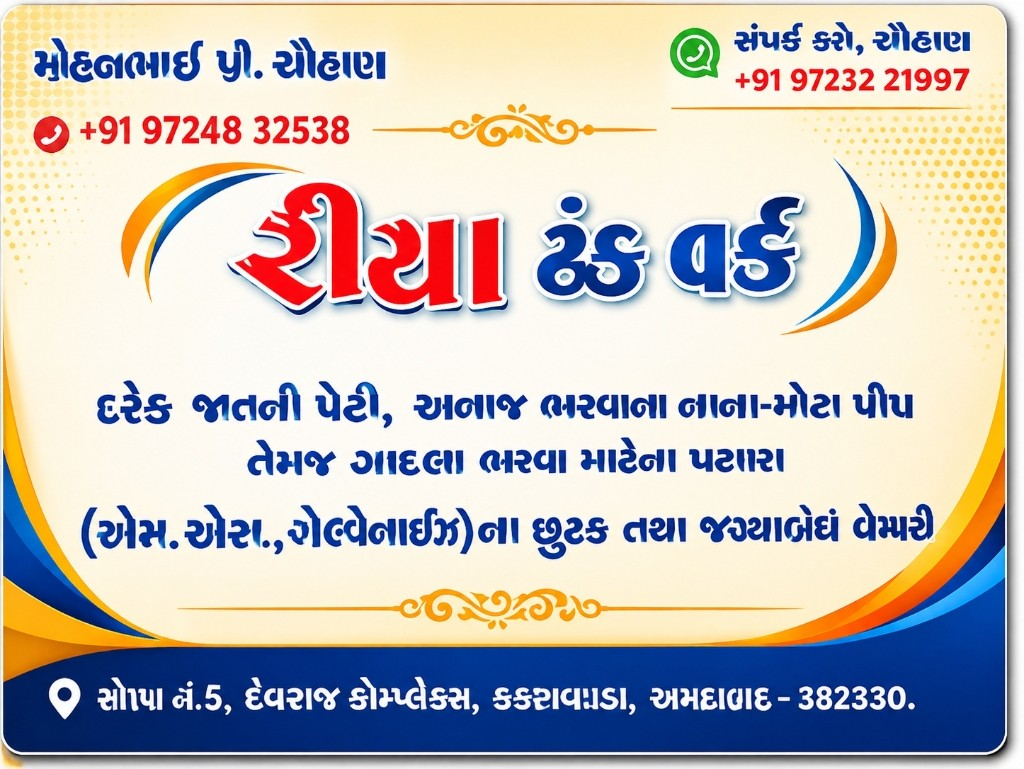
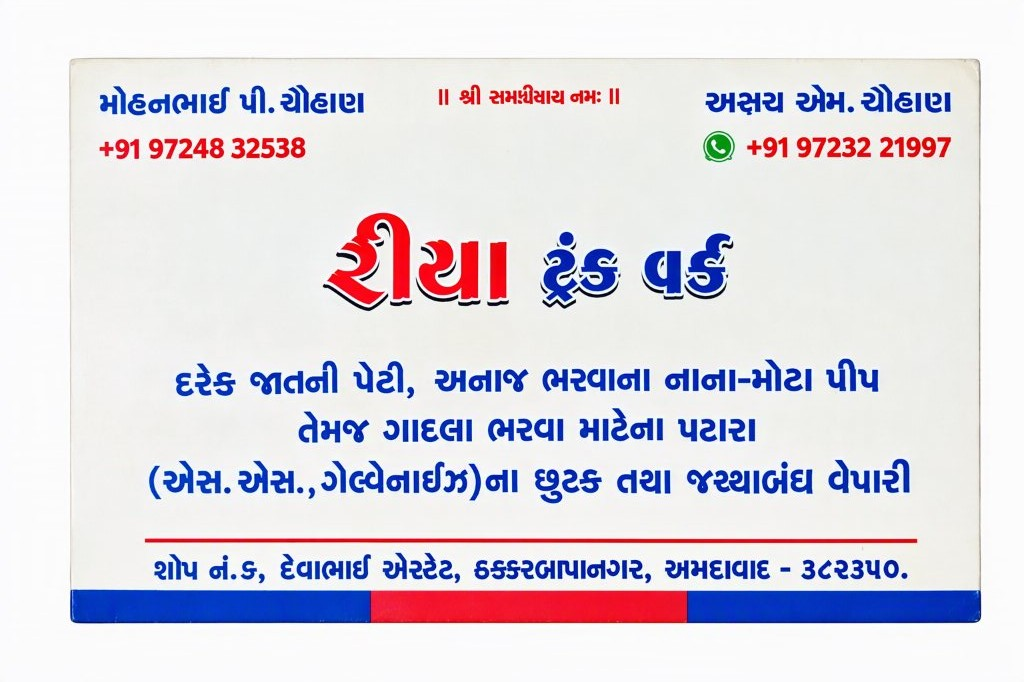
feat: update visiting card and official business address to Devabhai Estate Thakkarbapanagar 382350

diff --git a/src/data/translations.js b/src/data/translations.js
@@ -9,7 +9,7 @@ export const translations = {
       fullName: "રિયા ટ્રંક વર્ક – અમદાવાદ",
       tagline: "સ્ટોરેજ, પણ સાવ આઇકોનિક.",
       subtagline: "રોજિંદા જીવન અને પેઢીઓ માટે પ્રીમિયમ મેટલ ટ્રંક અને સ્ટોરેજ સોલ્યુશન્સ.",
-      shopLabel: "શોપ નં. ૬, દેવરાજ કોમ્પલેક્સ, કઠવાડા, અમદાવાદ",
+      shopLabel: "શોપ નં. ૬, દેવાભાઈ એસ્ટેટ, ઠક્કરબાપાનગર, અમદાવાદ",
       wholesaleRetailTag: "જથ્થાબંધ અને છૂટક વિક્રેતા"
     },
     nav: {
@@ -65,7 +65,7 @@ export const translations = {
       p2: "દરેક ટ્રંક અને કોઠી ઉચ્ચ ગુણવત્તાવાળા સીઆરસી (CRC), ગેલ્વેનાઈઝ્ડ (GI) પતરાં તથા સ્ટેનલેસ સ્ટીલમાંથી કાળજીપૂર્વક તૈયાર કરવામાં આવે છે. મજબૂત વેલ્ડિંગ, મજબૂત હેન્ડલ્સ અને સેફ્ટી લૉક સાથે તે વર્ષો સુધી અડીખમ રહે છે.",
       ownerLabel: "સંચાલક / માલિક:",
       ownerName: "મોહનભાઈ પી. ચૌહાણ",
-      locationLabel: "સ્થળ: દેવરાજ કોમ્પલેક્સ, કઠવાડા, અમદાવાદ"
+      locationLabel: "સ્થળ: દેવાભાઈ એસ્ટેટ, ઠક્કરબાપાનગર, અમદાવાદ"
     },
     whyUs: {
       heading: "રિયા ટ્રંક વર્ક શા માટે?",
@@ -164,7 +164,7 @@ export const translations = {
       subtitle: "મજબૂત સંગ્રહ. વિશ્વાસપાત્ર ગુણવત્તા.",
       tag: "અમારા વિશે",
       storyHeading: "રિયા ટ્રંક વર્ક વિશે",
-      storyBody1: "રિયા ટ્રંક વર્ક અમદાવાદમાં આવેલી એક અગ્રણી મેટલ ફેબ્રિકેશન અને સ્ટોરેજ સોલ્યુશન્સ પ્રદાતા છે. અમારી દુકાન દેવરાજ કોમ્પલેક્સ, કઠવાડા, અમદાવાદ ખાતે આવેલી છે, જેનું સંચાલન મોહનભાઈ પી. ચૌહાણ કરે છે.",
+      storyBody1: "રિયા ટ્રંક વર્ક અમદાવાદમાં આવેલી એક અગ્રણી મેટલ ફેબ્રિકેશન અને સ્ટોરેજ સોલ્યુશન્સ પ્રદાતા છે. અમારી દુકાન દેવાભાઈ એસ્ટેટ, ઠક્કરબાપાનગર, અમદાવાદ ખાતે આવેલી છે, જેનું સંચાલન મોહનભાઈ પી. ચૌહાણ કરે છે.",
       storyBody2: "અમે વર્ષોથી ગ્રાહકોની જરૂરિયાતોને અનુરૂપ ટકાઉ મેટલ ટ્રંક, અનાજ ભરવાની કોઠીઓ (Grain Storage Drums), પથારી અને ગાદલાં માટેના મોટા જમ્બો ટ્રંક, સ્ટેનલેસ સ્ટીલ (SS) ડબ્બા અને ગેલ્વેનાઈઝ્ડ (GI) પતરાના ઉત્પાદનો પૂરા પાડીએ છીએ.",
       storyBody3: "અમારી પ્રાથમિકતા હંમેશા મજબૂત મટીરીયલ અને વિશ્વસનીય કારીગરી રહી છે, જેના કારણે સ્થાનિક પરિવારો અને અમદાવાદના વેપારીઓ અમારા પર વિશ્વાસ મૂકે છે.",
       materialsTitle: "અમે વાપરીએ છીએ તે મટીરીયલ્સ",
@@ -179,7 +179,7 @@ export const translations = {
       quickLinks: "ઝડપી લિંક્સ",
       categories: "પ્રોડક્ટ્સ",
       contact: "સંપર્ક વિગત",
-      address: "શોપ નં. ૬, દેવરાજ કોમ્પલેક્સ, કઠવાડા, અમદાવાદ, ગુજરાત – ૩૮૨૩૩૦",
+      address: "શોપ નં. ૬, દેવાભાઈ એસ્ટેટ, ઠક્કરબાપાનગર, અમદાવાદ, ગુજરાત – ૩૮૨૩૫૦",
       phone: "+91 97248 32538",
       whatsapp: "+91 97232 21997",
       rights: "સર્વાધિકાર સુરક્ષિત.",
@@ -193,7 +193,7 @@ export const translations = {
       fullName: "रिया ट्रंक वर्क – अहमदाबाद",
       tagline: "STORAGE, BUT MAKE IT ICONIC.",
       subtagline: "दैनिक जीवन और पीढ़ियों के लिए प्रीमियम मेटल ट्रंक और स्टोरेज समाधान।",
-      shopLabel: "दुकान नं. ६, देवराज कॉम्प्लेक्स, कठवाड़ा, अहमदाबाद",
+      shopLabel: "दुकान नं. ६, देवाभाई एस्टेट, ठक्करबापानगर, अहमदाबाद",
       wholesaleRetailTag: "थोक एवं खुदरा विक्रेता"
     },
     nav: {
@@ -249,7 +249,7 @@ export const translations = {
       p2: "प्रत्येक ट्रंक और ड्रम उच्च गुणवत्ता वाले सीआरसी (CRC), गैल्वेनाइज्ड (GI) और स्टेनलेस स्टील से तैयार किया जाता है। मजबूत वेल्डिंग और सुरक्षा लॉक के साथ ये वर्षों तक बेजोड़ रहते हैं।",
       ownerLabel: "संचालक / संपर्क:",
       ownerName: "मोहनभाई पी. चौहान",
-      locationLabel: "स्थान: देवराज कॉम्प्लेक्स, कठवाड़ा, अहमदाबाद"
+      locationLabel: "स्थान: देवाभाई एस्टेट, ठक्करबापानगर, अहमदाबाद"
     },
     whyUs: {
       heading: "रिया ट्रंक वर्क क्यों चुनें?",
@@ -348,7 +348,7 @@ export const translations = {
       subtitle: "मजबूत भंडारण। अटूट विश्वसनीयता।",
       tag: "हमारे बारे में",
       storyHeading: "रिया ट्रंक वर्क के बारे में",
-      storyBody1: "रिया ट्रंक वर्क अहमदाबाद में स्थित एक प्रमुख मेटल फैब्रिकेशन और स्टोरेज समाधान प्रतिष्ठान है। हमारी दुकान देवराज कॉम्प्लेक्स, कठवाड़ा, अहमदाबाद में स्थित है, जिसका संचालन मोहनभाई पी. चौहान द्वारा किया जाता है।",
+      storyBody1: "रिया ट्रंक वर्क अहमदाबाद में स्थित एक प्रमुख मेटल फैब्रिकेशन और स्टोरेज समाधान प्रतिष्ठान है। हमारी दुकान देवाभाई एस्टेट, ठक्करबापानगर, अहमदाबाद में स्थित है, जिसका संचालन मोहनभाई पी. चौहान द्वारा किया जाता है।",
       storyBody2: "हम ग्राहकों की आवश्यकता अनुसार टिकाऊ मेटल ट्रंक, अनाज भंडारण कोठी (Grain Drums), रजाई-गद्दों के बड़े जंबो ट्रंक, स्टेनलेस स्टील (SS) कंटेनर और गैल्वेनाइज्ड (GI) मेटल उत्पाद उपलब्ध कराते हैं।",
       storyBody3: "हमारी प्राथमिकता हमेशा मजबूत सामग्री और कुशल कारीगरी रही है, जिस पर अहमदाबाद के परिवार और व्यापारी विश्वास करते हैं।",
       materialsTitle: "हमारे द्वारा प्रयुक्त प्रमुख सामग्रियां",
@@ -363,7 +363,7 @@ export const translations = {
       quickLinks: "त्वरित लिंक",
       categories: "उत्पाद",
       contact: "संपर्क विवरण",
-      address: "दुकान नं. ६, देवराज कॉम्प्लेक्स, कठवाड़ा, अहमदाबाद, गुजरात – ३८२३३०",
+      address: "दुकान नं. ६, देवाभाई एस्टेट, ठक्करबापानगर, अहमदाबाद, गुजरात – ३૮૨३૫૦",
       phone: "+91 97248 32538",
       whatsapp: "+91 97232 21997",
       rights: "सर्वाधिकार सुरक्षित।",
@@ -377,7 +377,7 @@ export const translations = {
       fullName: "RIYA TRUNK WORK – Ahmedabad",
       tagline: "STORAGE, BUT MAKE IT ICONIC.",
       subtagline: "Premium metal trunks & storage solutions engineered for everyday life and generational durability.",
-      shopLabel: "Shop No. 6, Devraj Complex, Kathwada, Ahmedabad",
+      shopLabel: "Shop No. 6, Devabhai Estate, Thakkarbapanagar, Ahmedabad",
       wholesaleRetailTag: "Wholesale & Retail Supplier"
     },
     nav: {
@@ -433,7 +433,7 @@ export const translations = {
       p2: "Every trunk and drum is precision-built using high-tensile CRC steel, galvanized (GI) sheet, or surgical-grade stainless steel. With corner reinforcements and heavy padlock eyelets, your valuables remain secure.",
       ownerLabel: "Proprietor / Contact:",
       ownerName: "Mohanbhai P. Chauhan",
-      locationLabel: "Location: Devraj Complex, Kathwada, Ahmedabad"
+      locationLabel: "Location: Devabhai Estate, Thakkarbapanagar, Ahmedabad"
     },
     whyUs: {
       heading: "WHY RIYA TRUNK WORK?",
@@ -532,7 +532,7 @@ export const translations = {
       subtitle: "Heavy-duty durability meets modern utility.",
       tag: "OUR STORY",
       storyHeading: "About RIYA TRUNK WORK",
-      storyBody1: "RIYA TRUNK WORK is an established metal fabrication and storage products manufacturer and supplier located at Devraj Complex, Kathwada in Ahmedabad, Gujarat, founded and managed by Mohanbhai P. Chauhan.",
+      storyBody1: "RIYA TRUNK WORK is an established metal fabrication and storage products manufacturer and supplier located at Shop No. 6, Devabhai Estate, Thakkarbapanagar in Ahmedabad, Gujarat, founded and managed by Mohanbhai P. Chauhan.",
       storyBody2: "We specialize in the craftsmanship of heavy-duty metal storage trunks, airtight grain storage drums (Kothi/Peep), extra-capacity bedding and mattress trunks, stainless steel (SS) boxes, and galvanized (GI) containers.",
       storyBody3: "Our philosophy is grounded in robust metal gauge standards, durable hardware, and honest relationships with both retail customers and wholesale dealers across Gujarat.",
       materialsTitle: "Core Engineering Materials",
@@ -547,7 +547,7 @@ export const translations = {
       quickLinks: "Quick Links",
       categories: "Categories",
       contact: "Contact",
-      address: "Shop No. 6, Devraj Complex, Kathwada, Ahmedabad, Gujarat – 382330",
+      address: "Shop No. 6, Devabhai Estate, Thakkarbapanagar, Ahmedabad, Gujarat – 382350",
       phone: "+91 97248 32538",
       whatsapp: "+91 97232 21997",
       rights: "All Rights Reserved.",

diff --git a/src/lib/utils.js b/src/lib/utils.js
@@ -16,13 +16,13 @@ export function getWhatsAppLink({ product = null, enquiryType = 'general', custo
       `${variant ? `Surface Finish: *${variant} (As per my requirement)*\n` : (product.hasLaminationOption ? 'Surface Finish: *With or Without Lamination (As Required)*\n' : '')}` +
       `${includeTrolley ? `Wheeled Trolley Base: *Yes, please include movable trolley*\n` : ''}` +
       `${quantity ? `Required Quantity: ${quantity}\n` : ''}\n` +
-      `Please share:\n1. Current Price & Wholesale Rates\n2. Available Sizes & Dimensions\n3. Actual Product Photographs / Video\n4. Delivery or Shop Pickup options at Devraj Complex, Kathwada.\n\nThank you!`;
+      `Please share:\n1. Current Price & Wholesale Rates\n2. Available Sizes & Dimensions\n3. Actual Product Photographs / Video\n4. Delivery or Shop Pickup options at Devabhai Estate, Thakkarbapanagar.\n\nThank you!`;
   } else if (enquiryType === 'wholesale') {
     message = `Hello RIYA TRUNK WORK (Mohanbhai Chauhan),\n\nI am contacting you regarding a *WHOLESALE / BULK ENQUIRY* for metal storage boxes, grain drums (kothi), and GI containers.\n${customMessage ? `Details: ${customMessage}\n` : ''}\nPlease share your wholesale catalog, minimum order quantities, and best trader rates.\n\nThank you.`;
   } else if (enquiryType === 'retail') {
-    message = `Hello RIYA TRUNK WORK,\n\nI would like to enquire for *RETAIL / PERSONAL USE* metal storage box / grain drum.\n${customMessage ? `Requirement: ${customMessage}\n` : ''}\nPlease let me know available models and shop timings at Devraj Complex, Kathwada.\n\nThank you.`;
+    message = `Hello RIYA TRUNK WORK,\n\nI would like to enquire for *RETAIL / PERSONAL USE* metal storage box / grain drum.\n${customMessage ? `Requirement: ${customMessage}\n` : ''}\nPlease let me know available models and shop timings at Devabhai Estate, Thakkarbapanagar.\n\nThank you.`;
   } else {
-    message = customMessage || `Hello RIYA TRUNK WORK,\n\nI am visiting your website and would like to know more about your metal trunks and storage products at Shop No. 6, Devraj Complex, Kathwada, Ahmedabad.\n\nThank you.`;
+    message = customMessage || `Hello RIYA TRUNK WORK,\n\nI am visiting your website and would like to know more about your metal trunks and storage products at Shop No. 6, Devabhai Estate, Thakkarbapanagar, Ahmedabad.\n\nThank you.`;
   }
 
   return `https://wa.me/${OFFICIAL_WHATSAPP_RAW}?text=${encodeURIComponent(message)}`;

diff --git a/src/components/home/VisitShopMap.jsx b/src/components/home/VisitShopMap.jsx
@@ -69,7 +69,7 @@ export default function VisitShopMap() {
                   <div>
                     <div className="text-[11px] font-bold font-mono text-carbon/50 uppercase">ADDRESS</div>
                     <div className="font-bold text-carbon text-sm mt-0.5">{settings.address}</div>
-                    <div className="text-xs text-carbon/70 mt-0.5">Ahmedabad, Gujarat – 382340</div>
+                    <div className="text-xs text-carbon/70 mt-0.5">Ahmedabad, Gujarat – 382350</div>
                     <div className="inline-flex items-center gap-1 font-mono text-[10px] text-orange-electric font-bold mt-1 px-2 py-0.5 rounded bg-orange-50 border border-orange-200">
                       <span>GPS: 23.040066, 72.642030</span>
                     </div>
@@ -114,7 +114,7 @@ export default function VisitShopMap() {
           {/* Right Map View (7 Cols) */}
           <div className="lg:col-span-7 rounded-3xl border-2 border-carbon overflow-hidden shadow-brutal min-h-[350px] relative bg-cream-dark">
             <iframe
-              title="RIYA TRUNK WORK Location at Devraj Complex Kathwada Ahmedabad"
+              title="RIYA TRUNK WORK Location at Devabhai Estate Thakkarbapanagar Ahmedabad"
               src={settings.mapEmbedUrl}
               className="w-full h-full min-h-[380px] border-0"
               allowFullScreen=""
@@ -124,8 +124,8 @@ export default function VisitShopMap() {
 
             <div className="absolute bottom-4 left-4 right-4 bg-carbon/95 text-cream p-3 rounded-2xl border border-cream/20 flex items-center justify-between text-xs backdrop-blur-sm">
               <div className="truncate pr-2">
-                <span className="font-bold text-white">Shop No. 6, Devraj Complex, Kathwada</span>
-                <span className="hidden sm:inline text-cream/70"> • Ahmedabad, Gujarat 382330</span>
+                <span className="font-bold text-white">Shop No. 6, Devabhai Estate, Thakkarbapanagar</span>
+                <span className="hidden sm:inline text-cream/70"> • Ahmedabad, Gujarat 382350</span>
               </div>
               <a
                 href={settings.mapsDirectionUrl}

diff --git a/src/components/home/HeroSection.jsx b/src/components/home/HeroSection.jsx
@@ -91,7 +91,7 @@ export default function HeroSection() {
               </div>
               <div className="flex items-center gap-1.5">
                 <CheckCircle className="w-4 h-4 text-orange-electric shrink-0" />
-                <span>{lang === 'gu' ? 'દેવરાજ કોમ્પલેક્સ, કઠવાડા' : 'Devraj Complex, Kathwada'}</span>
+                <span>{lang === 'gu' ? 'દેવાભાઈ એસ્ટેટ, ઠક્કરબાપાનગર' : 'Devabhai Estate, Thakkarbapanagar'}</span>
               </div>
               <div className="flex items-center gap-1.5">
                 <CheckCircle className="w-4 h-4 text-orange-electric shrink-0" />
@@ -197,13 +197,13 @@ export default function HeroSection() {
                     className="font-bold text-whatsapp hover:underline flex items-center gap-1"
                   >
                     <MessageCircle className="w-3 h-3 fill-current" />
-                    <span>{settings.whatsappContactGu || settings.whatsappContact || 'સંપર્ક કરો, ચૌહાણ'} ({settings.whatsapp})</span>
+                    <span>{settings.whatsappContactGu || 'અક્ષય એમ. ચૌહાણ'} ({settings.whatsapp})</span>
                   </a>
                 </div>
                 <div className="flex items-center justify-between text-xs">
                   <span className="text-carbon/60 font-medium">Location:</span>
                   <span className="font-bold text-carbon truncate max-w-[210px]" title={settings.address}>
-                    {lang === 'gu' ? 'દેવરાજ કોમ્પલેક્સ, કઠવાડા' : 'Devraj Complex, Kathwada'}
+                    {lang === 'gu' ? 'દેવાભાઈ એસ્ટેટ, ઠક્કરબાપાનગર' : 'Devabhai Estate, Thakkarbapanagar'}
                   </span>
                 </div>
                 <div className="flex items-center justify-between text-xs pt-1.5 border-t border-carbon/10">

diff --git a/index.html b/index.html
@@ -9,7 +9,7 @@
     <!-- Primary Meta Tags -->
     <title>RIYA TRUNK WORK | રિયા ટ્રંક વર્ક – Storage, But Make It Iconic | Ahmedabad</title>
     <meta name="title" content="RIYA TRUNK WORK | રિયા ટ્રંક વર્ક – Storage, But Make It Iconic" />
-    <meta name="description" content="Ahmedabad's premier metal storage solutions. Metal storage boxes, grain storage drums (કોઠી), bedding trunks, stainless steel & galvanized metal products. Wholesale & Retail at Shop No. 6, Devraj Complex, Kathwada, Ahmedabad." />
+    <meta name="description" content="Ahmedabad's premier metal storage solutions. Metal storage boxes, grain storage drums (કોઠી), bedding trunks, stainless steel & galvanized metal products. Wholesale & Retail at Shop No. 6, Devabhai Estate, Thakkarbapanagar, Ahmedabad." />
     <meta name="keywords" content="Riya Trunk Work Ahmedabad, Metal Trunk Shop Ahmedabad, Stainless Steel Trunks Ahmedabad, Galvanized Storage Boxes Ahmedabad, Grain Storage Drums Ahmedabad, Metal Storage Boxes Wholesale, Bedding Storage Trunks, રિયા ટ્રંક વર્ક, અમદાવાદ" />
     <meta name="author" content="RIYA TRUNK WORK - Mohanbhai P. Chauhan" />
     <meta name="robots" content="index, follow" />
@@ -45,10 +45,10 @@
       "priceRange": "₹₹",
       "address": {
         "@type": "PostalAddress",
-        "streetAddress": "Shop No. 6, Devraj Complex, Kathwada",
+        "streetAddress": "Shop No. 6, Devabhai Estate, Thakkarbapanagar",
         "addressLocality": "Ahmedabad",
         "addressRegion": "Gujarat",
-        "postalCode": "382330",
+        "postalCode": "382350",
         "addressCountry": "IN"
       },
       "geo": {

diff --git a/src/data/businessInfo.js b/src/data/businessInfo.js
@@ -10,19 +10,19 @@ export const defaultBusinessInfo = {
   owner: "Mohanbhai P. Chauhan",
   ownerGu: "મોહનભાઈ પી. ચૌહાણ",
   ownerHi: "मोहनभाई पी. चौहान",
-  whatsappContact: "Chauhan",
-  whatsappContactGu: "સંપર્ક કરો, ચૌહાણ",
+  whatsappContact: "Akshay M. Chauhan",
+  whatsappContactGu: "અક્ષય એમ. ચૌહાણ",
   phone: "+91 97248 32538",
   phoneRaw: "919724832538",
   whatsapp: "+91 97232 21997",
   whatsappRaw: "919723221997",
   whatsappUrl: "https://wa.me/919723221997",
-  address: "Shop No. 6, Devraj Complex, Kathwada, Ahmedabad, Gujarat – 382330",
-  addressGu: "શોપ નં. ૬, દેવરાજ કોમ્પલેક્સ, કઠવાડા, અમદાવાદ, ગુજરાત – ૩૮૨૩૩૦",
-  addressHi: "दुकान नं. ६, देवराज कॉम्प्लेक्स, कठवाड़ा, अहमदाबाद, गुजरात – ३८२३३०",
+  address: "Shop No. 6, Devabhai Estate, Thakkarbapanagar, Ahmedabad, Gujarat – 382350",
+  addressGu: "શોપ નં. ૬, દેવાભાઈ એસ્ટેટ, ઠક્કરબાપાનગર, અમદાવાદ, ગુજરાત – ૩૮૨૩૫૦",
+  addressHi: "दुकान नं. ६, देवाभाई एस्टेट, ठक्करबापानगर, अहमदाबाद, गुजरात – ३૮૨३૫૦",
   city: "Ahmedabad",
   state: "Gujarat",
-  pincode: "382330",
+  pincode: "382350",
   latitude: 23.04006608245972,
   longitude: 72.6420295386142,
   coordinates: "23.040066, 72.642030",

diff --git a/src/pages/AboutPage.jsx b/src/pages/AboutPage.jsx
@@ -51,8 +51,8 @@ export default function AboutPage() {
               </div>
               <div className="p-3.5 rounded-2xl bg-cream border border-carbon/15">
                 <span className="font-mono text-[10px] text-carbon/50 uppercase font-bold block">COMMERCIAL FACILITY</span>
-                <span className="font-bold text-carbon text-sm mt-0.5 block">{settings.address || 'Shop No. 6, Devraj Complex, Kathwada'}</span>
-                <span className="text-carbon/60 text-[11px] block mt-0.5">Ahmedabad, Gujarat – 382330</span>
+                <span className="font-bold text-carbon text-sm mt-0.5 block">{settings.address || 'Shop No. 6, Devabhai Estate, Thakkarbapanagar'}</span>
+                <span className="text-carbon/60 text-[11px] block mt-0.5">Ahmedabad, Gujarat – 382350</span>
               </div>
             </div>
 

diff --git a/src/components/home/WholesaleRetailSection.jsx b/src/components/home/WholesaleRetailSection.jsx
@@ -68,7 +68,7 @@ export default function WholesaleRetailSection() {
                 </li>
                 <li className="flex items-center gap-2">
                   <span className="w-1.5 h-1.5 rounded-full bg-orange-electric"></span>
-                  <span>Direct truck/tempo loading from Devraj Complex, Kathwada shop</span>
+                  <span>Direct truck/tempo loading from Devabhai Estate, Thakkarbapanagar shop</span>
                 </li>
                 <li className="flex items-center gap-2">
                   <span className="w-1.5 h-1.5 rounded-full bg-orange-electric"></span>

diff --git a/src/components/home/BrandStory.jsx b/src/components/home/BrandStory.jsx
@@ -92,7 +92,7 @@ export default function BrandStory() {
                 <span className="font-mono text-[11px] text-silver font-bold uppercase">SUPPLY NETWORK</span>
               </div>
               <h4 className="font-display font-bold text-lg text-white">
-                Shop No. 6, Devraj Complex, Kathwada
+                Shop No. 6, Devabhai Estate, Thakkarbapanagar
               </h4>
               <p className="text-xs text-cream/70 leading-relaxed">
                 Conveniently accessible in Ahmedabad with on-spot loading for trucks, tempos, and direct personal customer vehicles.

diff --git a/src/pages/AdminDashboardPage.jsx b/src/pages/AdminDashboardPage.jsx
@@ -194,7 +194,7 @@ export default function AdminDashboardPage() {
                 </span>
               </div>
               <div className="flex items-center gap-3 text-xs text-carbon/60 mt-0.5">
-                <span>RIYA TRUNK WORK • Shop No. 6, Devraj Complex, Kathwada</span>
+                <span>RIYA TRUNK WORK • Shop No. 6, Devabhai Estate, Thakkarbapanagar</span>
                 <span>•</span>
                 <span className="flex items-center gap-1 font-mono text-[11px]">
                   <Database className="w-3 h-3 text-orange-electric" />

diff --git a/src/pages/ProductDetailPage.jsx b/src/pages/ProductDetailPage.jsx
@@ -180,7 +180,7 @@ export default function ProductDetailPage() {
                 <span>{availability || 'Available at Shop No. 6'}</span>
               </span>
               <span className="text-carbon/60 font-mono text-[11px]">
-                Workshop: Devraj Complex, Kathwada
+                Workshop: Devabhai Estate, Thakkarbapanagar
               </span>
             </div>
 
